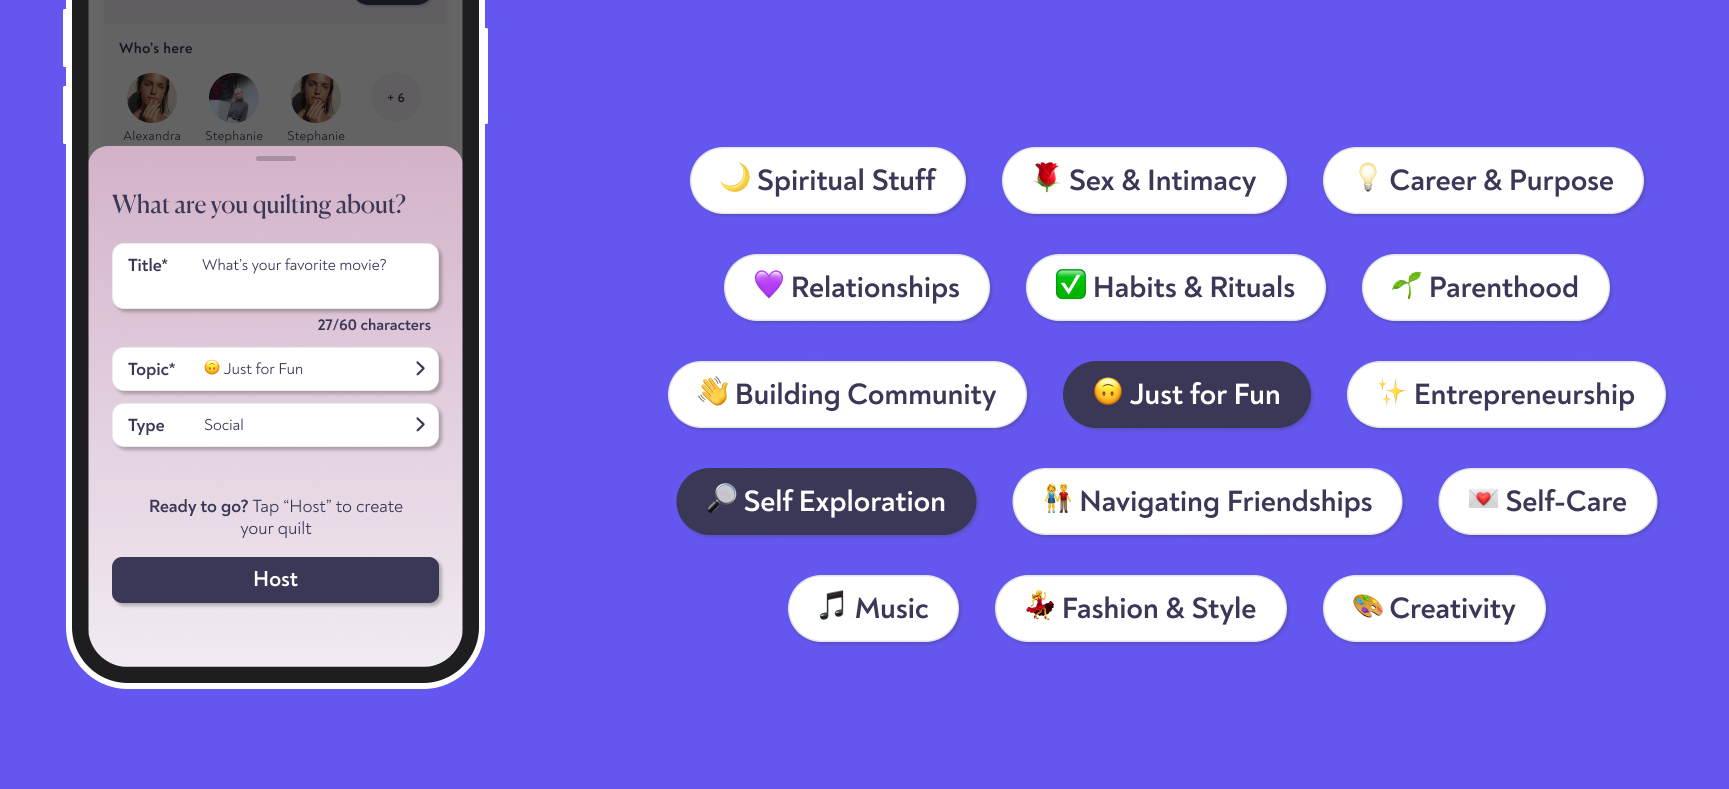
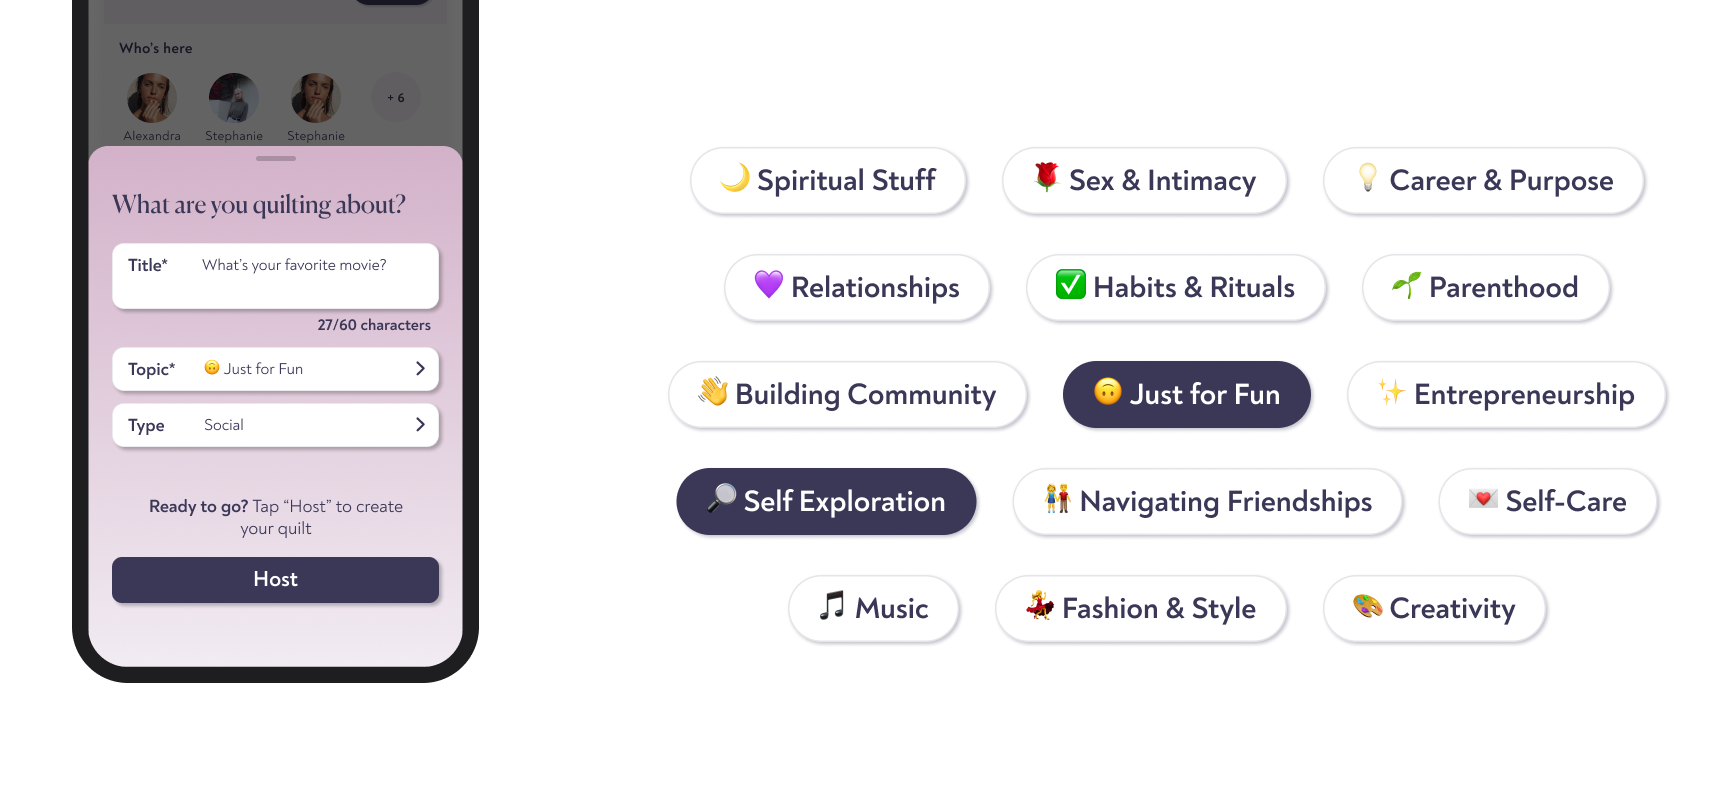
add skeleton

diff --git a/index.html b/index.html
@@ -26,6 +26,11 @@ main {
 }
 
 section {
+	background-color: lightslategrey;
+	border-radius: 8px;
+}
+
+section#me {
 	background-color: sienna;
 	border-radius: 8px;
 }
@@ -69,27 +74,36 @@ hr {
 p.footnote {
 	font-size: 0.8em;
 }
-
-div#cover-1 {
-	background: url(work/assets/cover-1.png) no-repeat;
-	background-size: cover;
-}
 </style>
 </head>
 
 <body>
 	<main>
-		<section class=card-lrg>
+		<section class=card-lrg id=me>
 			<div class=contents>
 				<h1>Katie Lin is a <span>product designer</span> and <span>engineer</style>.</h1>
 				<p>I'm interested in alternative models of education, non-games<sup><a id=fn1 href=#footnote1>1</a></sup> and sandbox environments, social models of computing, design systems, the history of technology, and personal canons.</p>
 			</div>
 		</section>
 		<section class=card-med>
-			<div class=contents></div>
+			<div class=contents>
+				<img src=work/assets/cover-2.png width=100%>
+			</div>
+		</section>
+		<section class=card-med>
+			<div class=contents>
+				<img src=work/assets/cover-2.png width=100%>
+			</div>
 		</section>
 		<section class=card-lrg>
-			<div class=contents id=cover-1>
+			<div class=contents>
+				<img src=work/assets/cover-1.png width=100%>
+			</div>
+		</section>
+		<section class=card-lrg id=me>
+			<div class=contents>
+				<h1>Katie Lin is a <span>product designer</span> and <span>engineer</style>.</h1>
+				<p>I'm interested in alternative models of education, non-games<sup><a id=fn1 href=#footnote1>1</a></sup> and sandbox environments, social models of computing, design systems, the history of technology, and personal canons.</p>
 			</div>
 		</section>
 	</main>
